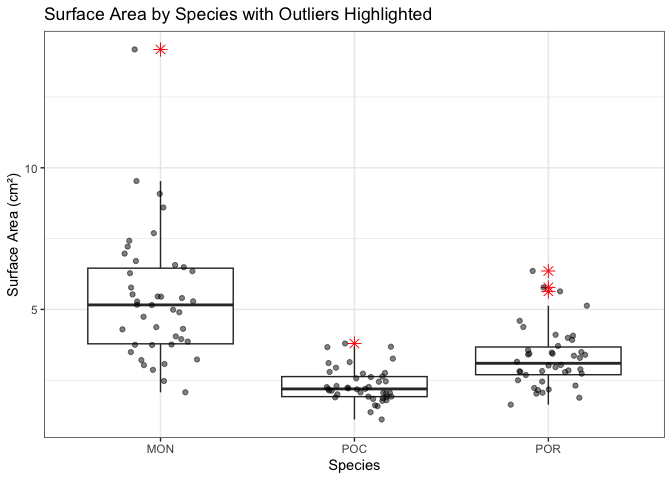
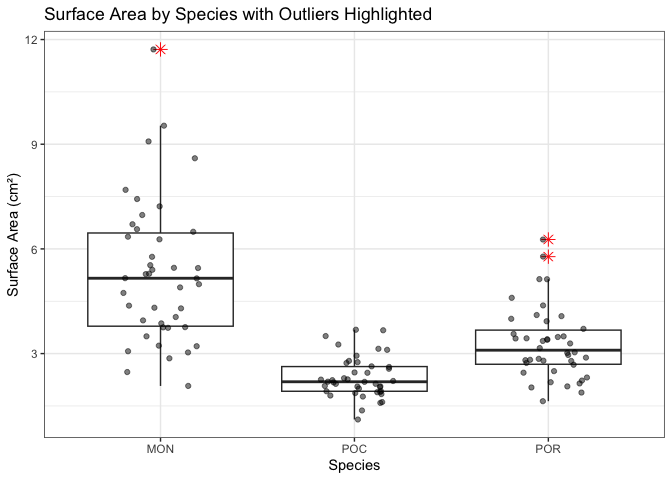
double checked outlier frags

diff --git a/4-multi-species/code/phys/SurfaceArea.md b/4-multi-species/code/phys/SurfaceArea.md
@@ -46,7 +46,7 @@ smpls$surface.area.cm2 <- stnd.curve$coefficients[2] * smpls$delta.mass.g + stnd
 range(smpls$surface.area.cm2)
 ```
 
-    ## [1]  1.112458 14.178736
+    ## [1]  1.112458 11.716885
 
 ``` r
 range(stnds$surface.area.cm2)
@@ -95,10 +95,12 @@ ggplot(smpls, aes(x = surface.area.cm2)) +
 
 ![](SurfaceArea_files/figure-gfm/unnamed-chunk-2-2.png)<!-- -->
 
-Outliers to check out:
+On 9/21/26, I checked the following outliers in the original data and
+re-scraped any cut surfaces that could’ve artifically inflated the
+wax-dipped weight. New weights are written next to the originals on the
+datasheet and trackable through github commit 9/21/26.
 
-- MON_P24_C1 (\*\* this one especially)
+- MON_P24_C1
 - POR_P3_C2
-- POR_P72_C3
 - POR_P3_H1
 - POC_P12_C2
